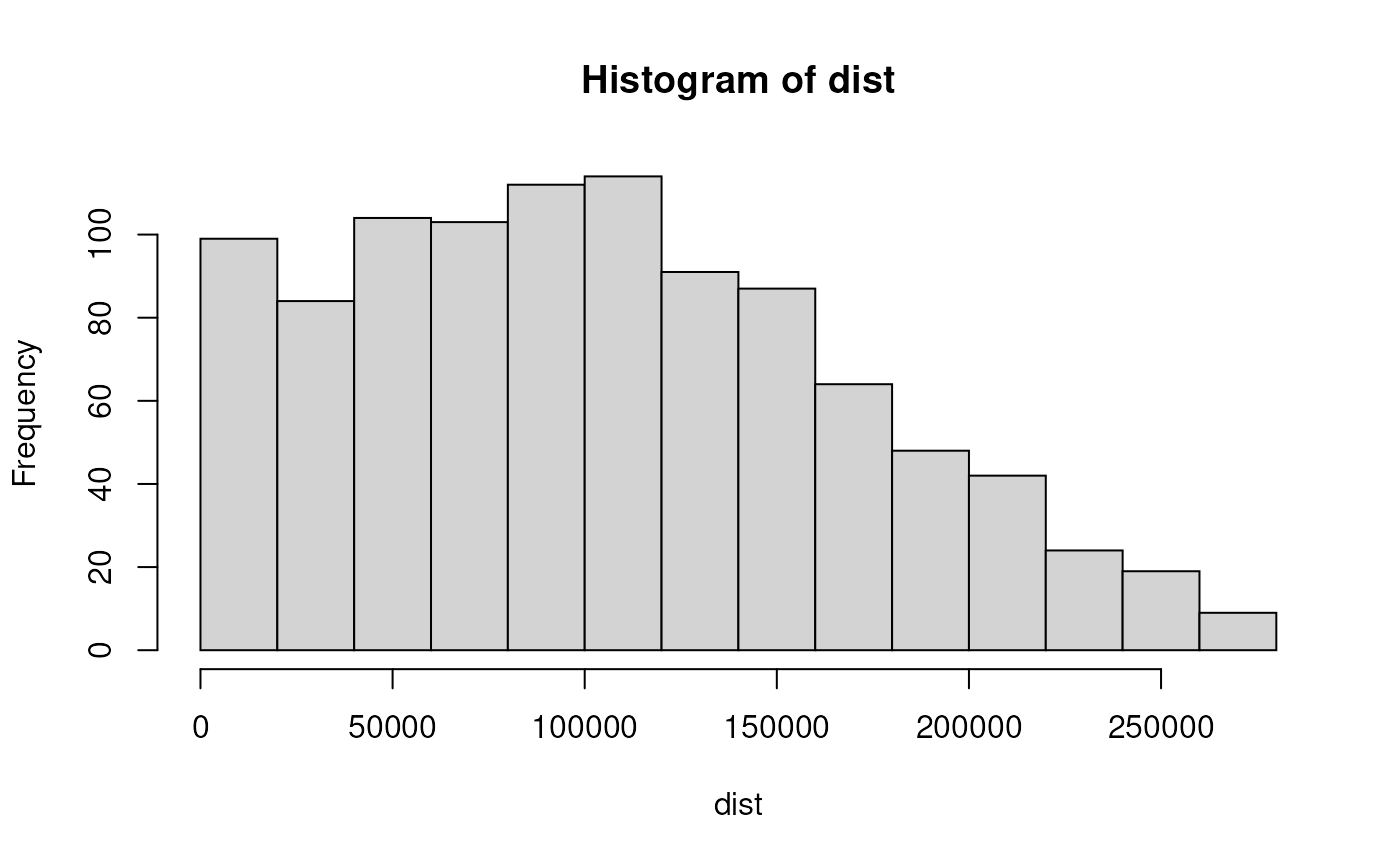
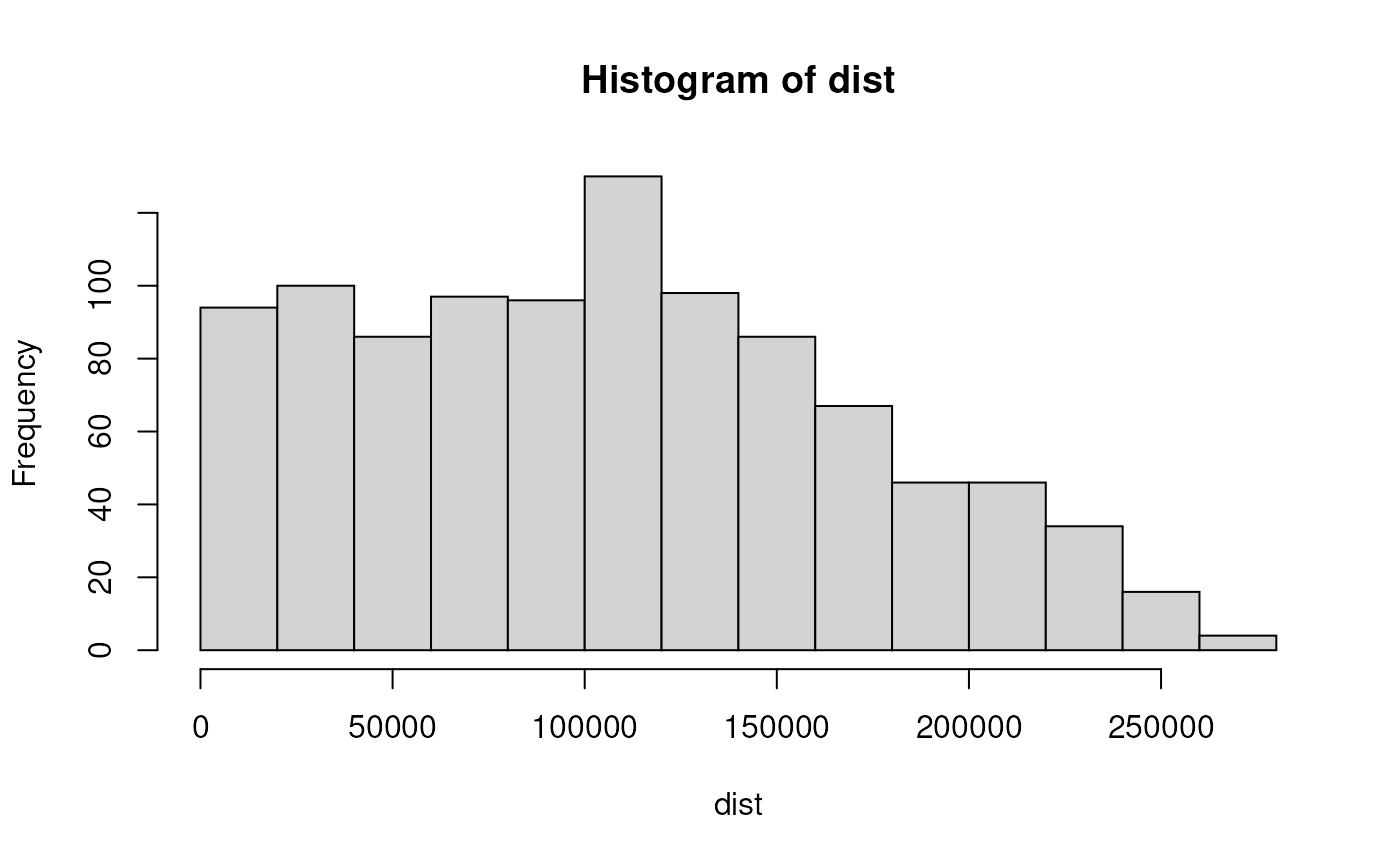
update site

diff --git a/docs/articles/intro.html b/docs/articles/intro.html
@@ -5,13 +5,13 @@
 <meta charset="utf-8">
 <meta http-equiv="X-UA-Compatible" content="IE=edge">
 <meta name="viewport" content="width=device-width, initial-scale=1.0">
-<title>Introduction to distanceto • distanceto</title>
+<title>Introduction to distance-to • distanceto</title>
 <!-- jquery --><script src="https://cdnjs.cloudflare.com/ajax/libs/jquery/3.4.1/jquery.min.js" integrity="sha256-CSXorXvZcTkaix6Yvo6HppcZGetbYMGWSFlBw8HfCJo=" crossorigin="anonymous"></script><!-- Bootstrap --><link rel="stylesheet" href="https://cdnjs.cloudflare.com/ajax/libs/twitter-bootstrap/3.4.1/css/bootstrap.min.css" integrity="sha256-bZLfwXAP04zRMK2BjiO8iu9pf4FbLqX6zitd+tIvLhE=" crossorigin="anonymous">
 <script src="https://cdnjs.cloudflare.com/ajax/libs/twitter-bootstrap/3.4.1/js/bootstrap.min.js" integrity="sha256-nuL8/2cJ5NDSSwnKD8VqreErSWHtnEP9E7AySL+1ev4=" crossorigin="anonymous"></script><!-- bootstrap-toc --><link rel="stylesheet" href="../bootstrap-toc.css">
 <script src="../bootstrap-toc.js"></script><!-- Font Awesome icons --><link rel="stylesheet" href="https://cdnjs.cloudflare.com/ajax/libs/font-awesome/5.12.1/css/all.min.css" integrity="sha256-mmgLkCYLUQbXn0B1SRqzHar6dCnv9oZFPEC1g1cwlkk=" crossorigin="anonymous">
 <link rel="stylesheet" href="https://cdnjs.cloudflare.com/ajax/libs/font-awesome/5.12.1/css/v4-shims.min.css" integrity="sha256-wZjR52fzng1pJHwx4aV2AO3yyTOXrcDW7jBpJtTwVxw=" crossorigin="anonymous">
 <!-- clipboard.js --><script src="https://cdnjs.cloudflare.com/ajax/libs/clipboard.js/2.0.6/clipboard.min.js" integrity="sha256-inc5kl9MA1hkeYUt+EC3BhlIgyp/2jDIyBLS6k3UxPI=" crossorigin="anonymous"></script><!-- headroom.js --><script src="https://cdnjs.cloudflare.com/ajax/libs/headroom/0.11.0/headroom.min.js" integrity="sha256-AsUX4SJE1+yuDu5+mAVzJbuYNPHj/WroHuZ8Ir/CkE0=" crossorigin="anonymous"></script><script src="https://cdnjs.cloudflare.com/ajax/libs/headroom/0.11.0/jQuery.headroom.min.js" integrity="sha256-ZX/yNShbjqsohH1k95liqY9Gd8uOiE1S4vZc+9KQ1K4=" crossorigin="anonymous"></script><!-- pkgdown --><link href="../pkgdown.css" rel="stylesheet">
-<script src="../pkgdown.js"></script><meta property="og:title" content="Introduction to distanceto">
+<script src="../pkgdown.js"></script><meta property="og:title" content="Introduction to distance-to">
 <meta property="og:description" content="distanceto">
 <!-- mathjax --><script src="https://cdnjs.cloudflare.com/ajax/libs/mathjax/2.7.5/MathJax.js" integrity="sha256-nvJJv9wWKEm88qvoQl9ekL2J+k/RWIsaSScxxlsrv8k=" crossorigin="anonymous"></script><script src="https://cdnjs.cloudflare.com/ajax/libs/mathjax/2.7.5/config/TeX-AMS-MML_HTMLorMML.js" integrity="sha256-84DKXVJXs0/F8OTMzX4UR909+jtl4G7SPypPavF+GfA=" crossorigin="anonymous"></script><!--[if lt IE 9]>
 <script src="https://oss.maxcdn.com/html5shiv/3.7.3/html5shiv.min.js"></script>
@@ -54,7 +54,7 @@
   </a>
   <ul class="dropdown-menu" role="menu">
 <li>
-      <a href="../articles/intro.html">Introduction to distanceto</a>
+      <a href="../articles/intro.html">Introduction to distance-to</a>
     </li>
   </ul>
 </li>
@@ -79,10 +79,10 @@
 
       
 
-      </header><script src="intro_files/header-attrs-2.8/header-attrs.js"></script><div class="row">
+      </header><script src="intro_files/header-attrs-2.11.3/header-attrs.js"></script><div class="row">
   <div class="col-md-9 contents">
     <div class="page-header toc-ignore">
-      <h1 data-toc-skip>Introduction to distanceto</h1>
+      <h1 data-toc-skip>Introduction to distance-to</h1>
             
       
       <small class="dont-index">Source: <a href="https://github.com/robitalec/distance-to/blob/master/vignettes/intro.Rmd"><code>vignettes/intro.Rmd</code></a></small>
@@ -102,18 +102,30 @@
 <li><code>distance_raster</code></li>
 </ul>
 </div>
-<div id="example-distance_to" class="section level1">
+<div id="install" class="section level1">
 <h1 class="hasAnchor">
-<a href="#example-distance_to" class="anchor"></a>Example: <code>distance_to</code>
-</h1>
+<a href="#install" class="anchor"></a>Install</h1>
 <div class="sourceCode" id="cb1"><pre class="downlit sourceCode r">
+<code class="sourceCode R"><span class="co"># Enable the robitalec universe</span>
+<span class="fu"><a href="https://rdrr.io/r/base/options.html">options</a></span><span class="op">(</span>repos <span class="op">=</span> <span class="fu"><a href="https://rdrr.io/r/base/c.html">c</a></span><span class="op">(</span>
+    robitalec <span class="op">=</span> <span class="st">'https://robitalec.r-universe.dev'</span>,
+    CRAN <span class="op">=</span> <span class="st">'https://cloud.r-project.org'</span><span class="op">)</span><span class="op">)</span>
+
+<span class="co"># Install distanceto</span>
+<span class="fu"><a href="https://rdrr.io/r/utils/install.packages.html">install.packages</a></span><span class="op">(</span><span class="st">'distanceto'</span><span class="op">)</span></code></pre></div>
+</div>
+<div id="distance_to" class="section level1">
+<h1 class="hasAnchor">
+<a href="#distance_to" class="anchor"></a><code>distance_to</code>
+</h1>
+<div class="sourceCode" id="cb2"><pre class="downlit sourceCode r">
 <code class="sourceCode R"><span class="kw"><a href="https://rdrr.io/r/base/library.html">library</a></span><span class="op">(</span><span class="va"><a href="https://github.com/robitalec/distance-to">distanceto</a></span><span class="op">)</span>
 <span class="kw"><a href="https://rdrr.io/r/base/library.html">library</a></span><span class="op">(</span><span class="va"><a href="https://r-spatial.github.io/sf/">sf</a></span><span class="op">)</span>
-<span class="co">#&gt; Linking to GEOS 3.9.1, GDAL 3.2.3, PROJ 8.0.1</span></code></pre></div>
-<div id="longlatunprojected" class="section level2">
+<span class="co">#&gt; Linking to GEOS 3.9.1, GDAL 3.3.1, PROJ 8.0.1</span></code></pre></div>
+<div id="long-lat-unprojected-coordinates" class="section level2">
 <h2 class="hasAnchor">
-<a href="#longlatunprojected" class="anchor"></a>Longlat/unprojected</h2>
-<div class="sourceCode" id="cb2"><pre class="downlit sourceCode r">
+<a href="#long-lat-unprojected-coordinates" class="anchor"></a>Long-lat / unprojected coordinates</h2>
+<div class="sourceCode" id="cb3"><pre class="downlit sourceCode r">
 <code class="sourceCode R"><span class="co"># Load nc data</span>
 <span class="va">nc</span> <span class="op">&lt;-</span> <span class="fu"><a href="https://r-spatial.github.io/sf/reference/st_read.html">st_read</a></span><span class="op">(</span><span class="fu"><a href="https://rdrr.io/r/base/system.file.html">system.file</a></span><span class="op">(</span><span class="st">"shapes/sids.shp"</span>, package<span class="op">=</span><span class="st">"spData"</span><span class="op">)</span><span class="op">)</span>
 <span class="co">#&gt; Reading layer `sids' from data source </span>
@@ -142,18 +154,18 @@
 <span class="va">ncpts</span><span class="op">$</span><span class="va">dist</span> <span class="op">&lt;-</span> <span class="va">dist</span>
 
 <span class="fu"><a href="https://rdrr.io/r/utils/head.html">head</a></span><span class="op">(</span><span class="va">dist</span>, <span class="fl">30</span><span class="op">)</span>
-<span class="co">#&gt;  [1]  69170.572  94691.024  55137.980      0.000 104423.749  93035.031</span>
-<span class="co">#&gt;  [7] 103668.312 140574.301  55107.186  61705.852  67701.372 189578.221</span>
-<span class="co">#&gt; [13] 115155.470      0.000 128007.295  89100.853 164333.203 209414.846</span>
-<span class="co">#&gt; [19] 128742.511  34246.213  50834.879 101772.779 102510.672  74503.198</span>
-<span class="co">#&gt; [25] 125536.720  96022.694  92399.512  94645.538   3621.384  68600.032</span>
+<span class="co">#&gt;  [1]  59159.73 170372.41 239410.32 100642.25 112655.00 219361.44 120556.75</span>
+<span class="co">#&gt;  [8] 165470.20  36997.22 204245.47  81224.35 104191.92 175883.53 138352.96</span>
+<span class="co">#&gt; [15] 192734.88 146158.76 208500.33 114880.88 164632.04  73676.32 209448.55</span>
+<span class="co">#&gt; [22]  82645.85  94063.64 111207.91 114373.67  27710.88 143440.15  10248.95</span>
+<span class="co">#&gt; [29]  95629.69 136262.55</span>
 <span class="fu"><a href="https://rdrr.io/r/graphics/hist.html">hist</a></span><span class="op">(</span><span class="va">dist</span><span class="op">)</span></code></pre></div>
 <p><img src="intro_files/figure-html/unnamed-chunk-2-1.png" width="700"></p>
 </div>
-<div id="projected" class="section level2">
+<div id="projected-coordinates" class="section level2">
 <h2 class="hasAnchor">
-<a href="#projected" class="anchor"></a>Projected</h2>
-<div class="sourceCode" id="cb3"><pre class="downlit sourceCode r">
+<a href="#projected-coordinates" class="anchor"></a>Projected coordinates</h2>
+<div class="sourceCode" id="cb4"><pre class="downlit sourceCode r">
 <code class="sourceCode R"><span class="co"># Load seine data</span>
 <span class="fu"><a href="https://rdrr.io/r/utils/data.html">data</a></span><span class="op">(</span><span class="st">'seine'</span>, package <span class="op">=</span> <span class="st">'spData'</span><span class="op">)</span>
 
@@ -173,20 +185,20 @@
 <span class="va">seinepts</span><span class="op">$</span><span class="va">dist</span> <span class="op">&lt;-</span> <span class="va">dist</span>
 
 <span class="fu"><a href="https://rdrr.io/r/utils/head.html">head</a></span><span class="op">(</span><span class="va">dist</span>, <span class="fl">30</span><span class="op">)</span>
-<span class="co">#&gt;  [1]  141.1600 1708.2127  453.4780  877.4737  524.3576 1635.6506  557.9336</span>
-<span class="co">#&gt;  [8]  963.7649  770.2118  330.4320  746.1570  630.6266  882.1246  952.9051</span>
-<span class="co">#&gt; [15] 2211.3012  203.9389  331.1289 1824.8333  782.3002  875.9662  148.3173</span>
-<span class="co">#&gt; [22]  596.4483 1530.5836  660.8008  494.7669 4946.8324  968.5504 1019.8165</span>
-<span class="co">#&gt; [29] 2648.6321 3483.6507</span>
+<span class="co">#&gt;  [1] 1475.4729  804.7909 2965.4492  741.4175 1882.2771  941.2033 1506.2992</span>
+<span class="co">#&gt;  [8]  621.2957  579.0929 1643.1096 1581.4075  469.7743  636.9162 1432.3008</span>
+<span class="co">#&gt; [15]  574.4903  714.2305  619.2407  596.5574  939.0630 1490.0131  294.1060</span>
+<span class="co">#&gt; [22]  631.5090 2691.5918  941.1175  618.8345  959.0653  625.5747  854.7989</span>
+<span class="co">#&gt; [29]  719.2472  914.5645</span>
 <span class="fu"><a href="https://rdrr.io/r/graphics/hist.html">hist</a></span><span class="op">(</span><span class="va">dist</span><span class="op">)</span></code></pre></div>
 <p><img src="intro_files/figure-html/unnamed-chunk-3-1.png" width="700"></p>
 </div>
 </div>
-<div id="example-distance_raster" class="section level1">
+<div id="distance_raster" class="section level1">
 <h1 class="hasAnchor">
-<a href="#example-distance_raster" class="anchor"></a>Example: <code>distance_raster</code>
+<a href="#distance_raster" class="anchor"></a><code>distance_raster</code>
 </h1>
-<div class="sourceCode" id="cb4"><pre class="downlit sourceCode r">
+<div class="sourceCode" id="cb5"><pre class="downlit sourceCode r">
 <code class="sourceCode R"><span class="kw"><a href="https://rdrr.io/r/base/library.html">library</a></span><span class="op">(</span><span class="va"><a href="https://rspatial.org/raster">raster</a></span><span class="op">)</span>
 <span class="co">#&gt; Loading required package: sp</span>
 

diff --git a/docs/reference/distance_raster.html b/docs/reference/distance_raster.html
@@ -95,7 +95,7 @@
   </a>
   <ul class="dropdown-menu" role="menu">
     <li>
-      <a href="../articles/intro.html">Introduction to distanceto</a>
+      <a href="../articles/intro.html">Introduction to distance-to</a>
     </li>
   </ul>
 </li>
@@ -171,7 +171,8 @@ indicates projected coordinates.</p></td>
     </tr>
     <tr>
       <th>check</th>
-      <td><p>default: TRUE. Checks the cellsize against the size of the feature layers <code>y</code> bounding box or optional <code>extent</code> argument.</p></td>
+      <td><p>default: TRUE. Checks the cellsize against the size
+of the feature layers <code>y</code> bounding box or optional <code>extent</code> argument.</p></td>
     </tr>
     </table>
 
@@ -181,7 +182,8 @@ indicates projected coordinates.</p></td>
     <h2 class="hasAnchor" id="details"><a class="anchor" href="#details"></a>Details</h2>
 
     <p>Calculates the distance of each pixel to the features in layer <code>y</code>.
-First, generates a regular grid of points in the bounding box of <code>y</code> or optionally provided
+First, generates a regular grid of points in the bounding box of <code>y</code> or
+optionally provided
 <code>extent</code>. Then measures the distance from each point to the nearest feature
 in layer <code>y</code> using <code><a href='distance_to.html'>distanceto::distance_to()</a></code>. Finally, returns the grid
 of distances, rasterized using the excellent package <code>fasterize</code>.</p>
@@ -206,7 +208,7 @@ and max XY of the bounding box to generate a larger surface.</p>
     <h2 class="hasAnchor" id="examples"><a class="anchor" href="#examples"></a>Examples</h2>
     <pre class="examples"><span class='r-in'><span class='co'># Load sf</span></span>
 <span class='r-in'><span class='kw'><a href='https://rdrr.io/r/base/library.html'>library</a></span><span class='op'>(</span><span class='va'><a href='https://r-spatial.github.io/sf/'>sf</a></span><span class='op'>)</span></span>
-<span class='r-msg co'><span class='r-pr'>#&gt;</span> Linking to GEOS 3.9.1, GDAL 3.2.3, PROJ 8.0.1</span>
+<span class='r-msg co'><span class='r-pr'>#&gt;</span> Linking to GEOS 3.9.1, GDAL 3.3.1, PROJ 8.0.1</span>
 <span class='r-in'></span>
 <span class='r-in'><span class='co'># Load nc data</span></span>
 <span class='r-in'><span class='va'>nc</span> <span class='op'>&lt;-</span> <span class='fu'><a href='https://r-spatial.github.io/sf/reference/st_read.html'>st_read</a></span><span class='op'>(</span><span class='fu'><a href='https://rdrr.io/r/base/system.file.html'>system.file</a></span><span class='op'>(</span><span class='st'>"shapes/sids.shp"</span>, package<span class='op'>=</span><span class='st'>"spData"</span><span class='op'>)</span><span class='op'>)</span></span>

diff --git a/docs/index.html b/docs/index.html
@@ -12,7 +12,15 @@
 <link rel="stylesheet" href="https://cdnjs.cloudflare.com/ajax/libs/font-awesome/5.12.1/css/v4-shims.min.css" integrity="sha256-wZjR52fzng1pJHwx4aV2AO3yyTOXrcDW7jBpJtTwVxw=" crossorigin="anonymous">
 <!-- clipboard.js --><script src="https://cdnjs.cloudflare.com/ajax/libs/clipboard.js/2.0.6/clipboard.min.js" integrity="sha256-inc5kl9MA1hkeYUt+EC3BhlIgyp/2jDIyBLS6k3UxPI=" crossorigin="anonymous"></script><!-- headroom.js --><script src="https://cdnjs.cloudflare.com/ajax/libs/headroom/0.11.0/headroom.min.js" integrity="sha256-AsUX4SJE1+yuDu5+mAVzJbuYNPHj/WroHuZ8Ir/CkE0=" crossorigin="anonymous"></script><script src="https://cdnjs.cloudflare.com/ajax/libs/headroom/0.11.0/jQuery.headroom.min.js" integrity="sha256-ZX/yNShbjqsohH1k95liqY9Gd8uOiE1S4vZc+9KQ1K4=" crossorigin="anonymous"></script><!-- pkgdown --><link href="pkgdown.css" rel="stylesheet">
 <script src="pkgdown.js"></script><meta property="og:title" content="Calculate Distance To">
-<meta property="og:description" content="Calculates distance to features from point locations.">
+<meta property="og:description" content="Calculates distances from point locations to features.
+    The usual approach for eg. resource selection function analyses is to
+    generate a complete distance to surface then sample it with your 
+    observed and random points. Since these raster based approaches can be
+    pretty costly with large areas, and often lead to memory issues in R, 
+    the distanceto package opts to compute these distances using
+    efficient, vector based approaches. As a helper, theres a decidedly 
+    low-res raster based approach for visually inspecting your regions 
+    distance surface. But the workhorse is distance_to.">
 <!-- mathjax --><script src="https://cdnjs.cloudflare.com/ajax/libs/mathjax/2.7.5/MathJax.js" integrity="sha256-nvJJv9wWKEm88qvoQl9ekL2J+k/RWIsaSScxxlsrv8k=" crossorigin="anonymous"></script><script src="https://cdnjs.cloudflare.com/ajax/libs/mathjax/2.7.5/config/TeX-AMS-MML_HTMLorMML.js" integrity="sha256-84DKXVJXs0/F8OTMzX4UR909+jtl4G7SPypPavF+GfA=" crossorigin="anonymous"></script><!--[if lt IE 9]>
 <script src="https://oss.maxcdn.com/html5shiv/3.7.3/html5shiv.min.js"></script>
 <script src="https://oss.maxcdn.com/respond/1.4.2/respond.min.js"></script>
@@ -54,7 +62,7 @@
   </a>
   <ul class="dropdown-menu" role="menu">
 <li>
-      <a href="articles/intro.html">Introduction to distanceto</a>
+      <a href="articles/intro.html">Introduction to distance-to</a>
     </li>
   </ul>
 </li>

diff --git a/docs/reference/distance_to.html b/docs/reference/distance_to.html
@@ -95,7 +95,7 @@
   </a>
   <ul class="dropdown-menu" role="menu">
     <li>
-      <a href="../articles/intro.html">Introduction to distanceto</a>
+      <a href="../articles/intro.html">Introduction to distance-to</a>
     </li>
   </ul>
 </li>
@@ -141,7 +141,8 @@
       <th>x</th>
       <td><p>points to measure distances from, to layer <code>y</code>. Expecting an <code>sf</code>
 point compatible with <code><a href='https://r-spatial.github.io/sf/reference/st_coordinates.html'>sf::st_coordinates</a></code> such as an <code>sf</code>, <code>sfc</code> or
-<code>sfg</code> object with geometry type 'POINT' or 'MULTIPOINT'. CRS of <code>x</code> should match CRS of <code>y</code>.</p></td>
+<code>sfg</code> object with geometry type 'POINT' or 'MULTIPOINT'. CRS of <code>x</code>
+should match CRS of <code>y</code>.</p></td>
     </tr>
     <tr>
       <th>y</th>

diff --git a/docs/articles/intro_files/header-attrs-2.11.3/header-attrs.js b/docs/articles/intro_files/header-attrs-2.11.3/header-attrs.js
@@ -1,0 +1,12 @@
+// Pandoc 2.9 adds attributes on both header and div. We remove the former (to
+// be compatible with the behavior of Pandoc < 2.8).
+document.addEventListener('DOMContentLoaded', function(e) {
+  var hs = document.querySelectorAll("div.section[class*='level'] > :first-child");
+  var i, h, a;
+  for (i = 0; i < hs.length; i++) {
+    h = hs[i];
+    if (!/^h[1-6]$/i.test(h.tagName)) continue;  // it should be a header h1-h6
+    a = h.attributes;
+    while (a.length > 0) h.removeAttribute(a[0].name);
+  }
+});

diff --git a/docs/articles/index.html b/docs/articles/index.html
@@ -94,7 +94,7 @@
   </a>
   <ul class="dropdown-menu" role="menu">
     <li>
-      <a href="../articles/intro.html">Introduction to distanceto</a>
+      <a href="../articles/intro.html">Introduction to distance-to</a>
     </li>
   </ul>
 </li>
@@ -130,7 +130,7 @@
       <p class="section-desc"></p>
 
       <dl>
-        <dt><a href="intro.html">Introduction to distanceto</a></dt>
+        <dt><a href="intro.html">Introduction to distance-to</a></dt>
         <dd></dt>
       </dl>
     </div>

diff --git a/docs/reference/distanceto.html b/docs/reference/distanceto.html
@@ -104,7 +104,7 @@ distance_to." />
   </a>
   <ul class="dropdown-menu" role="menu">
     <li>
-      <a href="../articles/intro.html">Introduction to distanceto</a>
+      <a href="../articles/intro.html">Introduction to distance-to</a>
     </li>
   </ul>
 </li>

diff --git a/docs/news/index.html b/docs/news/index.html
@@ -94,7 +94,7 @@
   </a>
   <ul class="dropdown-menu" role="menu">
     <li>
-      <a href="../articles/intro.html">Introduction to distanceto</a>
+      <a href="../articles/intro.html">Introduction to distance-to</a>
     </li>
   </ul>
 </li>

diff --git a/docs/reference/index.html b/docs/reference/index.html
@@ -94,7 +94,7 @@
   </a>
   <ul class="dropdown-menu" role="menu">
     <li>
-      <a href="../articles/intro.html">Introduction to distanceto</a>
+      <a href="../articles/intro.html">Introduction to distance-to</a>
     </li>
   </ul>
 </li>

diff --git a/docs/404.html b/docs/404.html
@@ -94,7 +94,7 @@
   </a>
   <ul class="dropdown-menu" role="menu">
     <li>
-      <a href="articles/intro.html">Introduction to distanceto</a>
+      <a href="articles/intro.html">Introduction to distance-to</a>
     </li>
   </ul>
 </li>

diff --git a/docs/LICENSE.html b/docs/LICENSE.html
@@ -94,7 +94,7 @@
   </a>
   <ul class="dropdown-menu" role="menu">
     <li>
-      <a href="articles/intro.html">Introduction to distanceto</a>
+      <a href="articles/intro.html">Introduction to distance-to</a>
     </li>
   </ul>
 </li>

diff --git a/docs/authors.html b/docs/authors.html
@@ -94,7 +94,7 @@
   </a>
   <ul class="dropdown-menu" role="menu">
     <li>
-      <a href="articles/intro.html">Introduction to distanceto</a>
+      <a href="articles/intro.html">Introduction to distance-to</a>
     </li>
   </ul>
 </li>
